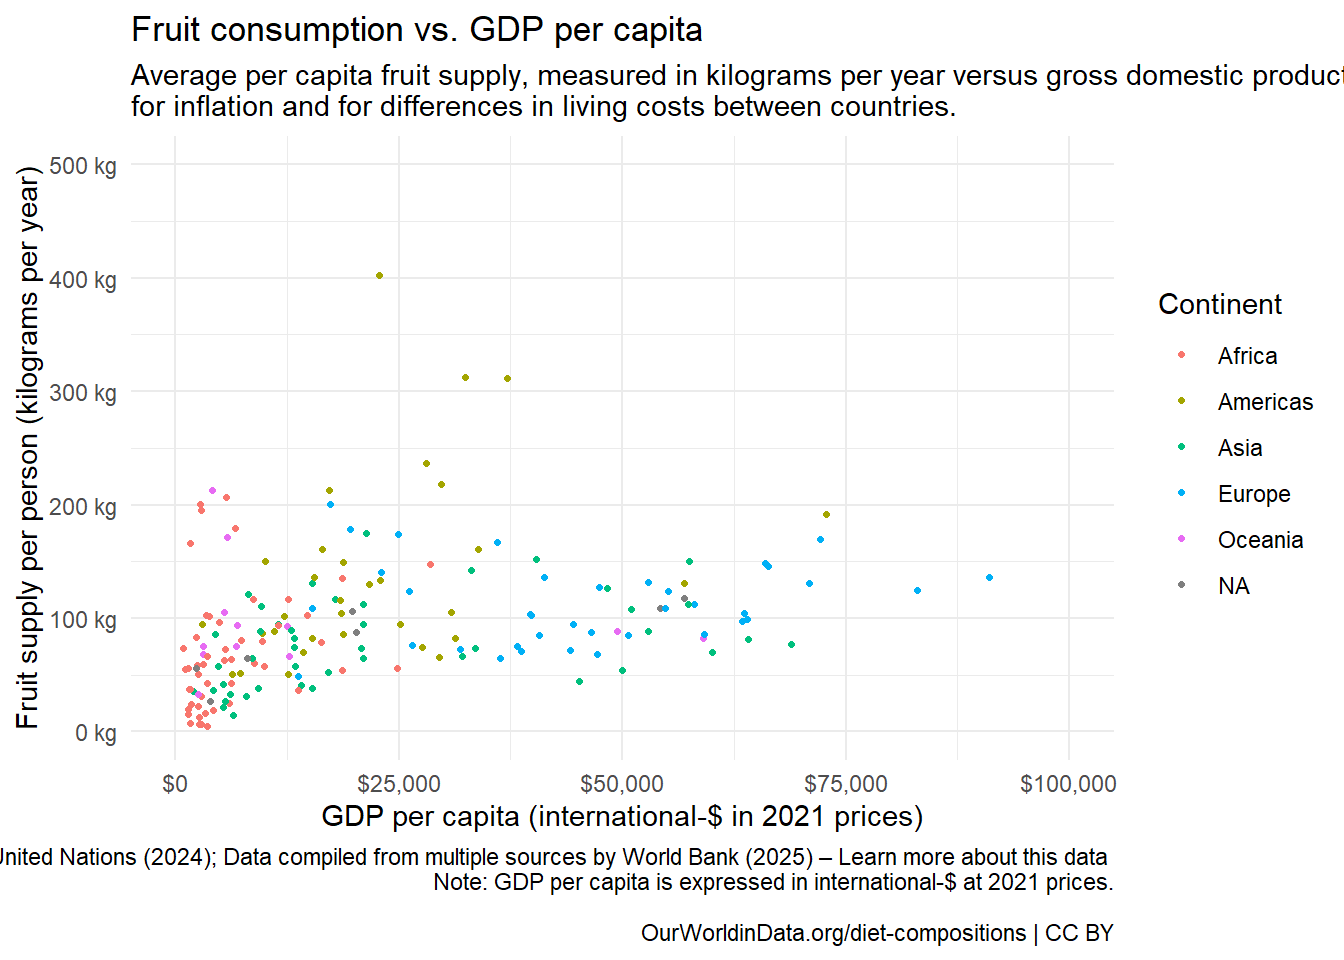
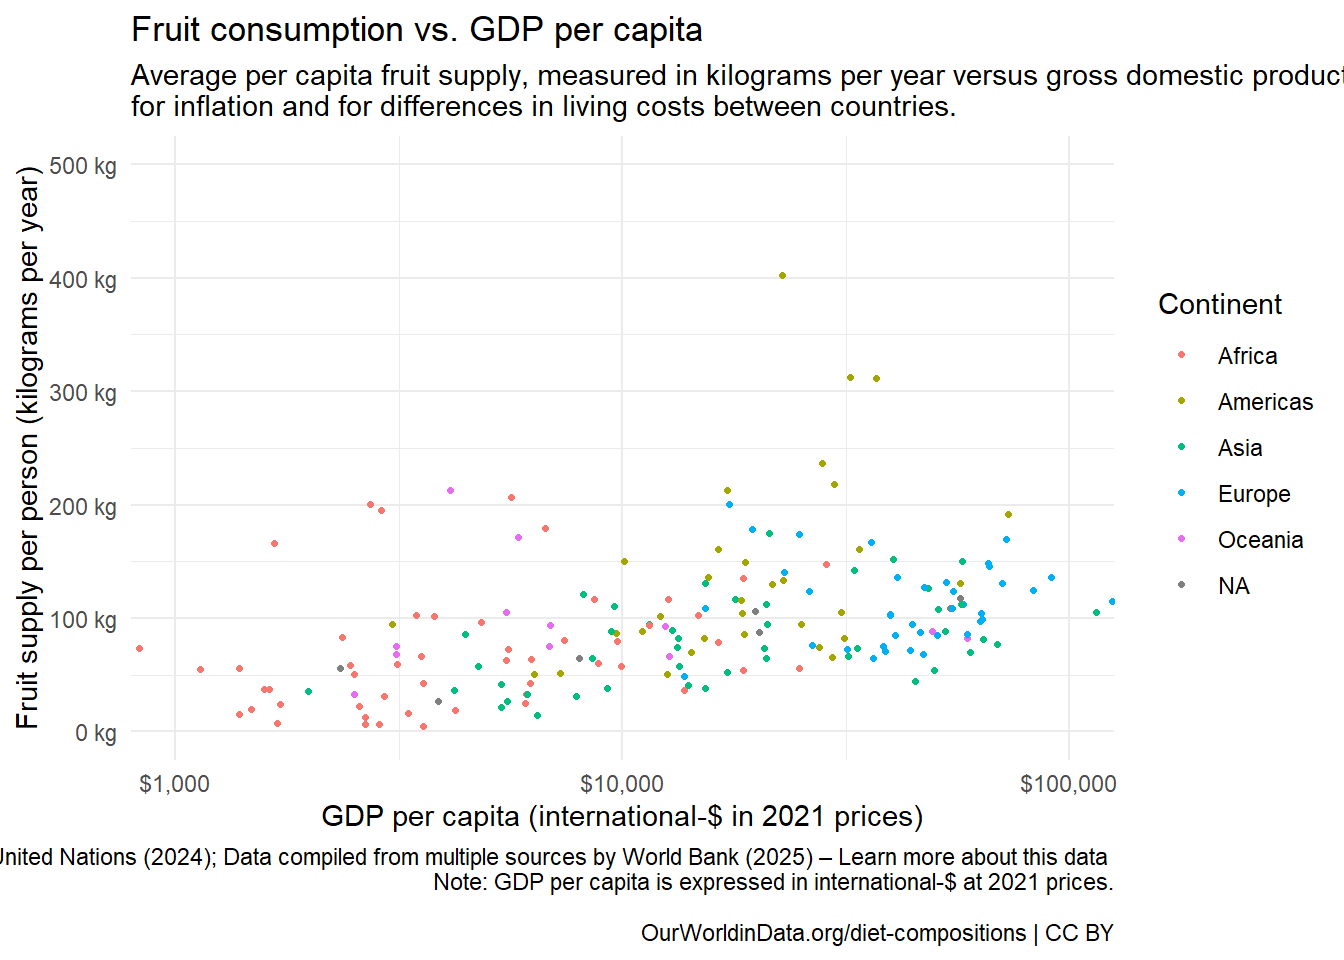
Fixed x axis log

diff --git a/week_05/Recreate Fruit Visualization.html b/week_05/Recreate Fruit Visualization.html
@@ -196,15 +196,16 @@ Caused by warning:
 <span id="cb15-3"><a href="#cb15-3"></a>  <span class="fu">scale_y_continuous</span>(<span class="at">breaks =</span> <span class="fu">seq</span>(<span class="dv">0</span>, <span class="dv">500</span>, <span class="dv">100</span>),</span>
 <span id="cb15-4"><a href="#cb15-4"></a>                     <span class="at">limits =</span> <span class="fu">c</span>(<span class="dv">0</span>, <span class="dv">500</span>),</span>
 <span id="cb15-5"><a href="#cb15-5"></a>                     <span class="at">labels =</span> <span class="fu">label_number</span>(<span class="at">suffix =</span> <span class="st">" kg"</span>)) <span class="sc">+</span></span>
-<span id="cb15-6"><a href="#cb15-6"></a>  <span class="fu">scale_x_continuous</span>(<span class="at">labels =</span> <span class="fu">dollar_format</span>(<span class="at">prefix =</span> <span class="st">"$"</span>, <span class="at">big.mark =</span> <span class="st">","</span>)) <span class="sc">+</span></span>
-<span id="cb15-7"><a href="#cb15-7"></a>  <span class="fu">labs</span>(<span class="at">title =</span> <span class="st">"Fruit consumption vs. GDP per capita"</span>,</span>
-<span id="cb15-8"><a href="#cb15-8"></a>       <span class="at">subtitle =</span> <span class="st">"Average per capita fruit supply, measured in kilograms per year versus gross domestic product (GDP) per capita, adjusted </span><span class="sc">\n</span><span class="st">for inflation and for differences in living costs between countries."</span>,</span>
-<span id="cb15-9"><a href="#cb15-9"></a>       <span class="at">x =</span> <span class="st">"GDP per capita (international-$ in 2021 prices)"</span>, </span>
-<span id="cb15-10"><a href="#cb15-10"></a>       <span class="at">y =</span> <span class="st">"Fruit supply per person (kilograms per year)"</span>,</span>
-<span id="cb15-11"><a href="#cb15-11"></a>       <span class="at">caption =</span> <span class="st">"Data source: Food and Agriculture Organization of the United Nations (2024); Data compiled from multiple sources by World Bank (2025) – Learn more about this data </span><span class="sc">\n</span><span class="st">Note: GDP per capita is expressed in international-$ at 2021 prices.</span></span>
-<span id="cb15-12"><a href="#cb15-12"></a><span class="sc">\n</span><span class="st">OurWorldinData.org/diet-compositions | CC BY"</span>) <span class="sc">+</span></span>
-<span id="cb15-13"><a href="#cb15-13"></a>  <span class="fu">coord_cartesian</span>(<span class="at">xlim =</span> <span class="fu">c</span>(<span class="dv">0</span>, <span class="dv">100000</span>)) <span class="sc">+</span></span>
-<span id="cb15-14"><a href="#cb15-14"></a>  <span class="fu">theme_minimal</span>()</span></code><button title="Copy to Clipboard" class="code-copy-button"><i class="bi"></i></button></pre></div>
+<span id="cb15-6"><a href="#cb15-6"></a>  <span class="fu">scale_x_continuous</span>(<span class="at">labels =</span> <span class="fu">dollar_format</span>(<span class="at">prefix =</span> <span class="st">"$"</span>, <span class="at">big.mark =</span> <span class="st">","</span>),</span>
+<span id="cb15-7"><a href="#cb15-7"></a>                     <span class="at">trans =</span> <span class="st">"log10"</span>) <span class="sc">+</span></span>
+<span id="cb15-8"><a href="#cb15-8"></a>  <span class="fu">labs</span>(<span class="at">title =</span> <span class="st">"Fruit consumption vs. GDP per capita"</span>,</span>
+<span id="cb15-9"><a href="#cb15-9"></a>       <span class="at">subtitle =</span> <span class="st">"Average per capita fruit supply, measured in kilograms per year versus gross domestic product (GDP) per capita, adjusted </span><span class="sc">\n</span><span class="st">for inflation and for differences in living costs between countries."</span>,</span>
+<span id="cb15-10"><a href="#cb15-10"></a>       <span class="at">x =</span> <span class="st">"GDP per capita (international-$ in 2021 prices)"</span>, </span>
+<span id="cb15-11"><a href="#cb15-11"></a>       <span class="at">y =</span> <span class="st">"Fruit supply per person (kilograms per year)"</span>,</span>
+<span id="cb15-12"><a href="#cb15-12"></a>       <span class="at">caption =</span> <span class="st">"Data source: Food and Agriculture Organization of the United Nations (2024); Data compiled from multiple sources by World Bank (2025) – Learn more about this data </span><span class="sc">\n</span><span class="st">Note: GDP per capita is expressed in international-$ at 2021 prices.</span></span>
+<span id="cb15-13"><a href="#cb15-13"></a><span class="sc">\n</span><span class="st">OurWorldinData.org/diet-compositions | CC BY"</span>) <span class="sc">+</span></span>
+<span id="cb15-14"><a href="#cb15-14"></a>  <span class="fu">coord_cartesian</span>(<span class="at">xlim =</span> <span class="fu">c</span>(<span class="dv">1000</span>, <span class="dv">100000</span>)) <span class="sc">+</span></span>
+<span id="cb15-15"><a href="#cb15-15"></a>  <span class="fu">theme_minimal</span>()</span></code><button title="Copy to Clipboard" class="code-copy-button"><i class="bi"></i></button></pre></div>
 </details>
 <div class="cell-output cell-output-stderr">
 <pre><code>Warning: Removed 1 row containing missing values or values outside the scale range
@@ -230,15 +231,16 @@ Caused by warning:
 <span id="cb17-7"><a href="#cb17-7"></a>  <span class="fu">scale_y_continuous</span>(<span class="at">breaks =</span> <span class="fu">seq</span>(<span class="dv">0</span>, <span class="dv">500</span>, <span class="dv">100</span>),</span>
 <span id="cb17-8"><a href="#cb17-8"></a>                     <span class="at">limits =</span> <span class="fu">c</span>(<span class="dv">0</span>, <span class="dv">500</span>),</span>
 <span id="cb17-9"><a href="#cb17-9"></a>                     <span class="at">labels =</span> <span class="fu">label_number</span>(<span class="at">suffix =</span> <span class="st">" kg"</span>)) <span class="sc">+</span></span>
-<span id="cb17-10"><a href="#cb17-10"></a>  <span class="fu">scale_x_continuous</span>(<span class="at">labels =</span> <span class="fu">dollar_format</span>(<span class="at">prefix =</span> <span class="st">"$"</span>, <span class="at">big.mark =</span> <span class="st">","</span>)) <span class="sc">+</span></span>
-<span id="cb17-11"><a href="#cb17-11"></a>  <span class="fu">labs</span>(<span class="at">title =</span> <span class="st">"Fruit consumption vs. GDP per capita: Kenya, Ghana, United States"</span>,</span>
-<span id="cb17-12"><a href="#cb17-12"></a>       <span class="at">subtitle =</span> <span class="st">"Average per capita fruit supply, measured in kilograms per year versus gross domestic product (GDP) per capita, adjusted </span><span class="sc">\n</span><span class="st">for inflation and for differences in living costs between countries."</span>,</span>
-<span id="cb17-13"><a href="#cb17-13"></a>       <span class="at">x =</span> <span class="st">"GDP per capita (international-$ in 2021 prices)"</span>, </span>
-<span id="cb17-14"><a href="#cb17-14"></a>       <span class="at">y =</span> <span class="st">"Fruit supply per person (kilograms per year)"</span>,</span>
-<span id="cb17-15"><a href="#cb17-15"></a>       <span class="at">caption =</span> <span class="st">"Data source: Food and Agriculture Organization of the United Nations (2024); Data compiled from multiple sources by World Bank (2025) – Learn more about this data </span><span class="sc">\n</span><span class="st">Note: GDP per capita is expressed in international-$ at 2021 prices.</span></span>
-<span id="cb17-16"><a href="#cb17-16"></a><span class="sc">\n</span><span class="st">OurWorldinData.org/diet-compositions | CC BY"</span>) <span class="sc">+</span></span>
-<span id="cb17-17"><a href="#cb17-17"></a>  <span class="fu">coord_cartesian</span>(<span class="at">xlim =</span> <span class="fu">c</span>(<span class="dv">0</span>, <span class="dv">100000</span>)) <span class="sc">+</span></span>
-<span id="cb17-18"><a href="#cb17-18"></a>  <span class="fu">theme_minimal</span>()</span></code><button title="Copy to Clipboard" class="code-copy-button"><i class="bi"></i></button></pre></div>
+<span id="cb17-10"><a href="#cb17-10"></a>  <span class="fu">scale_x_continuous</span>(<span class="at">labels =</span> <span class="fu">dollar_format</span>(<span class="at">prefix =</span> <span class="st">"$"</span>, <span class="at">big.mark =</span> <span class="st">","</span>),</span>
+<span id="cb17-11"><a href="#cb17-11"></a>                     <span class="at">trans =</span> <span class="st">"log10"</span>) <span class="sc">+</span></span>
+<span id="cb17-12"><a href="#cb17-12"></a>  <span class="fu">labs</span>(<span class="at">title =</span> <span class="st">"Fruit consumption vs. GDP per capita: Kenya, Ghana, United States"</span>,</span>
+<span id="cb17-13"><a href="#cb17-13"></a>       <span class="at">subtitle =</span> <span class="st">"Average per capita fruit supply, measured in kilograms per year versus gross domestic product (GDP) per capita, adjusted </span><span class="sc">\n</span><span class="st">for inflation and for differences in living costs between countries."</span>,</span>
+<span id="cb17-14"><a href="#cb17-14"></a>       <span class="at">x =</span> <span class="st">"GDP per capita (international-$ in 2021 prices)"</span>, </span>
+<span id="cb17-15"><a href="#cb17-15"></a>       <span class="at">y =</span> <span class="st">"Fruit supply per person (kilograms per year)"</span>,</span>
+<span id="cb17-16"><a href="#cb17-16"></a>       <span class="at">caption =</span> <span class="st">"Data source: Food and Agriculture Organization of the United Nations (2024); Data compiled from multiple sources by World Bank (2025) – Learn more about this data </span><span class="sc">\n</span><span class="st">Note: GDP per capita is expressed in international-$ at 2021 prices.</span></span>
+<span id="cb17-17"><a href="#cb17-17"></a><span class="sc">\n</span><span class="st">OurWorldinData.org/diet-compositions | CC BY"</span>) <span class="sc">+</span></span>
+<span id="cb17-18"><a href="#cb17-18"></a>  <span class="fu">coord_cartesian</span>(<span class="at">xlim =</span> <span class="fu">c</span>(<span class="dv">1000</span>, <span class="dv">100000</span>)) <span class="sc">+</span></span>
+<span id="cb17-19"><a href="#cb17-19"></a>  <span class="fu">theme_minimal</span>()</span></code><button title="Copy to Clipboard" class="code-copy-button"><i class="bi"></i></button></pre></div>
 </details>
 <div class="cell-output cell-output-stderr">
 <pre><code>Warning: Removed 1 row containing missing values or values outside the scale range
@@ -267,15 +269,16 @@ Caused by warning:
 <span id="cb19-7"><a href="#cb19-7"></a>  <span class="fu">scale_y_continuous</span>(<span class="at">breaks =</span> <span class="fu">seq</span>(<span class="dv">0</span>, <span class="dv">500</span>, <span class="dv">100</span>),</span>
 <span id="cb19-8"><a href="#cb19-8"></a>                     <span class="at">limits =</span> <span class="fu">c</span>(<span class="dv">0</span>, <span class="dv">500</span>),</span>
 <span id="cb19-9"><a href="#cb19-9"></a>                     <span class="at">labels =</span> <span class="fu">label_number</span>(<span class="at">suffix =</span> <span class="st">" kg"</span>)) <span class="sc">+</span></span>
-<span id="cb19-10"><a href="#cb19-10"></a>  <span class="fu">scale_x_continuous</span>(<span class="at">labels =</span> <span class="fu">dollar_format</span>(<span class="at">prefix =</span> <span class="st">"$"</span>, <span class="at">big.mark =</span> <span class="st">","</span>)) <span class="sc">+</span></span>
-<span id="cb19-11"><a href="#cb19-11"></a>  <span class="fu">labs</span>(<span class="at">title =</span> <span class="st">"Fruit consumption vs. GDP per capita: Oceania"</span>,</span>
-<span id="cb19-12"><a href="#cb19-12"></a>       <span class="at">subtitle =</span> <span class="st">"Average per capita fruit supply, measured in kilograms per year versus gross domestic product (GDP) per capita, adjusted </span><span class="sc">\n</span><span class="st">for inflation and for differences in living costs between countries."</span>,</span>
-<span id="cb19-13"><a href="#cb19-13"></a>       <span class="at">x =</span> <span class="st">"GDP per capita (international-$ in 2021 prices)"</span>, </span>
-<span id="cb19-14"><a href="#cb19-14"></a>       <span class="at">y =</span> <span class="st">"Fruit supply per person (kilograms per year)"</span>,</span>
-<span id="cb19-15"><a href="#cb19-15"></a>       <span class="at">caption =</span> <span class="st">"Data source: Food and Agriculture Organization of the United Nations (2024); Data compiled from multiple sources by World Bank (2025) – Learn more about this data </span><span class="sc">\n</span><span class="st">Note: GDP per capita is expressed in international-$ at 2021 prices.</span></span>
-<span id="cb19-16"><a href="#cb19-16"></a><span class="sc">\n</span><span class="st">OurWorldinData.org/diet-compositions | CC BY"</span>) <span class="sc">+</span></span>
-<span id="cb19-17"><a href="#cb19-17"></a>  <span class="fu">coord_cartesian</span>(<span class="at">xlim =</span> <span class="fu">c</span>(<span class="dv">0</span>, <span class="dv">100000</span>)) <span class="sc">+</span></span>
-<span id="cb19-18"><a href="#cb19-18"></a>  <span class="fu">theme_minimal</span>()</span></code><button title="Copy to Clipboard" class="code-copy-button"><i class="bi"></i></button></pre></div>
+<span id="cb19-10"><a href="#cb19-10"></a>  <span class="fu">scale_x_continuous</span>(<span class="at">labels =</span> <span class="fu">dollar_format</span>(<span class="at">prefix =</span> <span class="st">"$"</span>, <span class="at">big.mark =</span> <span class="st">","</span>),</span>
+<span id="cb19-11"><a href="#cb19-11"></a>                     <span class="at">trans =</span> <span class="st">"log10"</span>) <span class="sc">+</span></span>
+<span id="cb19-12"><a href="#cb19-12"></a>  <span class="fu">labs</span>(<span class="at">title =</span> <span class="st">"Fruit consumption vs. GDP per capita: Oceania"</span>,</span>
+<span id="cb19-13"><a href="#cb19-13"></a>       <span class="at">subtitle =</span> <span class="st">"Average per capita fruit supply, measured in kilograms per year versus gross domestic product (GDP) per capita, adjusted </span><span class="sc">\n</span><span class="st">for inflation and for differences in living costs between countries."</span>,</span>
+<span id="cb19-14"><a href="#cb19-14"></a>       <span class="at">x =</span> <span class="st">"GDP per capita (international-$ in 2021 prices)"</span>, </span>
+<span id="cb19-15"><a href="#cb19-15"></a>       <span class="at">y =</span> <span class="st">"Fruit supply per person (kilograms per year)"</span>,</span>
+<span id="cb19-16"><a href="#cb19-16"></a>       <span class="at">caption =</span> <span class="st">"Data source: Food and Agriculture Organization of the United Nations (2024); Data compiled from multiple sources by World Bank (2025) – Learn more about this data </span><span class="sc">\n</span><span class="st">Note: GDP per capita is expressed in international-$ at 2021 prices.</span></span>
+<span id="cb19-17"><a href="#cb19-17"></a><span class="sc">\n</span><span class="st">OurWorldinData.org/diet-compositions | CC BY"</span>) <span class="sc">+</span></span>
+<span id="cb19-18"><a href="#cb19-18"></a>  <span class="fu">coord_cartesian</span>(<span class="at">xlim =</span> <span class="fu">c</span>(<span class="dv">1000</span>, <span class="dv">100000</span>)) <span class="sc">+</span></span>
+<span id="cb19-19"><a href="#cb19-19"></a>  <span class="fu">theme_minimal</span>()</span></code><button title="Copy to Clipboard" class="code-copy-button"><i class="bi"></i></button></pre></div>
 </details>
 <div class="cell-output cell-output-stderr">
 <pre><code>Warning: Removed 1 row containing missing values or values outside the scale range

diff --git a/week_05/Recreate Fruit Visualization.html.md b/week_05/Recreate Fruit Visualization.html.md
@@ -158,14 +158,15 @@ ggplot(fruit, aes(x = ny_gdp_pcap_pp_kd, y = fruit_supply, color = Continent)) +
   scale_y_continuous(breaks = seq(0, 500, 100),
                      limits = c(0, 500),
                      labels = label_number(suffix = " kg")) +
-  scale_x_continuous(labels = dollar_format(prefix = "$", big.mark = ",")) +
+  scale_x_continuous(labels = dollar_format(prefix = "$", big.mark = ","),
+                     trans = "log10") +
   labs(title = "Fruit consumption vs. GDP per capita",
        subtitle = "Average per capita fruit supply, measured in kilograms per year versus gross domestic product (GDP) per capita, adjusted \nfor inflation and for differences in living costs between countries.",
        x = "GDP per capita (international-$ in 2021 prices)", 
        y = "Fruit supply per person (kilograms per year)",
        caption = "Data source: Food and Agriculture Organization of the United Nations (2024); Data compiled from multiple sources by World Bank (2025) – Learn more about this data \nNote: GDP per capita is expressed in international-$ at 2021 prices.
 \nOurWorldinData.org/diet-compositions | CC BY") +
-  coord_cartesian(xlim = c(0, 100000)) +
+  coord_cartesian(xlim = c(1000, 100000)) +
   theme_minimal()
 ```
 
@@ -196,14 +197,15 @@ ggplot(fruit, aes(x = ny_gdp_pcap_pp_kd, y = fruit_supply, color = Continent)) +
   scale_y_continuous(breaks = seq(0, 500, 100),
                      limits = c(0, 500),
                      labels = label_number(suffix = " kg")) +
-  scale_x_continuous(labels = dollar_format(prefix = "$", big.mark = ",")) +
+  scale_x_continuous(labels = dollar_format(prefix = "$", big.mark = ","),
+                     trans = "log10") +
   labs(title = "Fruit consumption vs. GDP per capita: Kenya, Ghana, United States",
        subtitle = "Average per capita fruit supply, measured in kilograms per year versus gross domestic product (GDP) per capita, adjusted \nfor inflation and for differences in living costs between countries.",
        x = "GDP per capita (international-$ in 2021 prices)", 
        y = "Fruit supply per person (kilograms per year)",
        caption = "Data source: Food and Agriculture Organization of the United Nations (2024); Data compiled from multiple sources by World Bank (2025) – Learn more about this data \nNote: GDP per capita is expressed in international-$ at 2021 prices.
 \nOurWorldinData.org/diet-compositions | CC BY") +
-  coord_cartesian(xlim = c(0, 100000)) +
+  coord_cartesian(xlim = c(1000, 100000)) +
   theme_minimal()
 ```
 
@@ -238,14 +240,15 @@ ggplot(fruit, aes(x = ny_gdp_pcap_pp_kd, y = fruit_supply, color = Continent)) +
   scale_y_continuous(breaks = seq(0, 500, 100),
                      limits = c(0, 500),
                      labels = label_number(suffix = " kg")) +
-  scale_x_continuous(labels = dollar_format(prefix = "$", big.mark = ",")) +
+  scale_x_continuous(labels = dollar_format(prefix = "$", big.mark = ","),
+                     trans = "log10") +
   labs(title = "Fruit consumption vs. GDP per capita: Oceania",
        subtitle = "Average per capita fruit supply, measured in kilograms per year versus gross domestic product (GDP) per capita, adjusted \nfor inflation and for differences in living costs between countries.",
        x = "GDP per capita (international-$ in 2021 prices)", 
        y = "Fruit supply per person (kilograms per year)",
        caption = "Data source: Food and Agriculture Organization of the United Nations (2024); Data compiled from multiple sources by World Bank (2025) – Learn more about this data \nNote: GDP per capita is expressed in international-$ at 2021 prices.
 \nOurWorldinData.org/diet-compositions | CC BY") +
-  coord_cartesian(xlim = c(0, 100000)) +
+  coord_cartesian(xlim = c(1000, 100000)) +
   theme_minimal()
 ```
 
